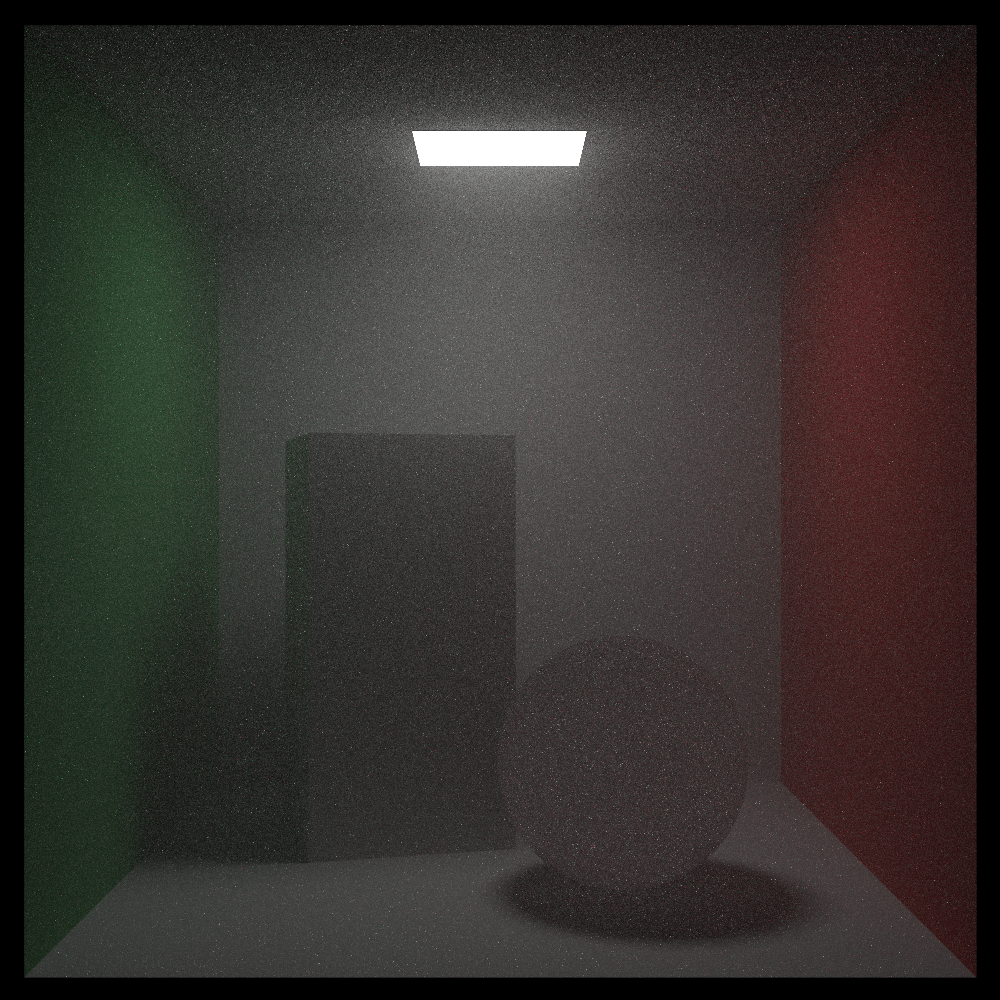
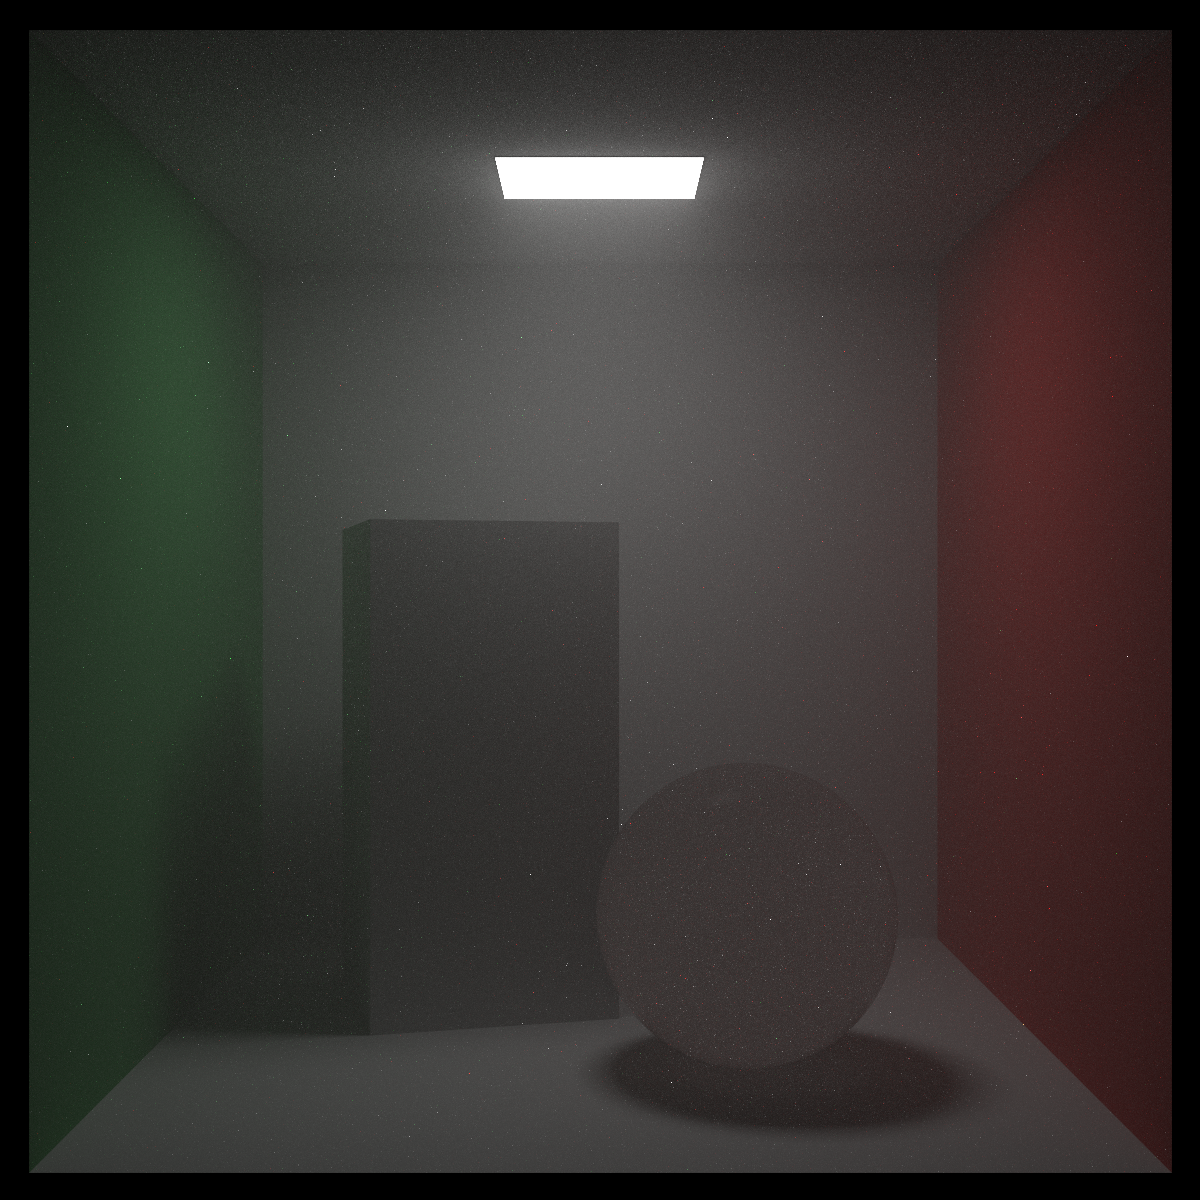
updated README and convergence drawing. Made some higher quality images

diff --git a/render.h b/render.h
@@ -14,7 +14,8 @@
 #include <sys/stat.h> 
 #include <sys/types.h>
 
-template<size_t image_width, size_t image_height, size_t samplespp>
+//image width and height are what they say they are
+template<size_t image_width, size_t image_height>
 struct render {
     const scene curr_scene;
     static constexpr unsigned max_depth = 50;
@@ -22,9 +23,19 @@ struct render {
     render() = delete;
     explicit render(scene scn) : curr_scene(std::move(scn)) {}
 
-    //image width and height are what they say they are
+
     //samplespp in the number of samples initially to generate
-    void draw_on_convergence(const std::string output, const double tol = 0.001) const {
+    template <size_t samplespp>
+    void draw_on_convergence(const std::string output, const double tol = 0.1) const {
+        //======================================
+        //The general idea:
+        // - consider the plot of the number of rays per pixel against the color of the pixel (or some component of color, say red)
+        // - then consider the plot of the derivative of this
+        // - when the plot of the derivative reaches tol, we quit
+        // Basically, we keep on adding more rays into the convergence gets signficantly slow
+        //======================================
+        constexpr long unsigned total_rays = samplespp*image_width*image_height;
+
         std::vector <std::vector<size_t>> samples;
         std::vector <std::vector<size_t>> curr_samples;     //keeps track of how many rays have been sent for a given pixel
 
@@ -32,11 +43,14 @@ struct render {
         std::vector <std::vector<color>> buffer_write; //buffer that has been properly normalized for file writing
         std::vector <std::vector<color>> buffer_prev;  //stores the previous buffer (for convergence checking)
 
+        std::vector <std::vector<double>> conv;  //stores how fast each pixel is converging to the solution
+
         samples.resize(image_width);
         curr_samples.resize(image_width);
         buffer.resize(image_width);
         buffer_write.resize(image_width);
         buffer_prev.resize(image_width);
+        conv.resize(image_width);
 
 
         for (unsigned i = 0; i < image_width; i++) {
@@ -45,6 +59,7 @@ struct render {
             buffer[i].resize(image_height);
             buffer_write[i].resize(image_height);
             buffer_prev[i].resize(image_height);
+            conv[i].resize(image_height);
             for (unsigned j = 0; j < image_height; j++) {
                 samples[i][j] = samplespp;
                 curr_samples[i][j] = 0;
@@ -57,52 +72,74 @@ struct render {
             for (unsigned i = 0; i < image_width; ++i) {
                 buffer_prev[i][j] = buffer[i][j];
                 curr_samples[i][j] += samples[i][j];
+                buffer_write[i][j] = buffer[i][j] / (double)curr_samples[i][j];
             }
         }
+        write_buffer_png(output, buffer_write);
 
         bool should_quit = false;
         unsigned counter = 0;
-        double max_dev = 0;
-        size_t pixel_x, pixel_y;
+        double max_dev = 0, max_dev_l = 0;  //storing the quickest convergence and the color with the quickest convergence
+        double sum = 0; //summing over all max_dev_l --- acts as a normalising factor for redistributing the rays
         while (!should_quit) {
             max_dev = 0;
+            sum = 0;
             should_quit = true;
             draw_to_buffer(buffer, samples);
             for (int j = (int) image_height - 1; j >= 0; --j) {
                 for (unsigned i = 0; i < image_width; ++i) {
                     curr_samples[i][j] += samples[i][j];
                     buffer_write[i][j] = buffer[i][j] / (double)curr_samples[i][j];
-                    //if the colour has not changed significatly
-                    const auto dev_x = abs(buffer_write[i][j].x() - buffer_prev[i][j].x()/(double)curr_samples[i][j]);
-                    const auto dev_y = abs(buffer_write[i][j].y() - buffer_prev[i][j].y()/(double)curr_samples[i][j]);
-                    const auto dev_z = abs(buffer_write[i][j].z() - buffer_prev[i][j].z()/(double)curr_samples[i][j]);
-                    if (dev_x > max_dev) {max_dev = dev_x; pixel_x = i; pixel_y = j;};
-                    if (dev_y > max_dev) {max_dev = dev_y; pixel_x = i; pixel_y = j;};
-                    if (dev_z > max_dev) {max_dev = dev_z; pixel_x = i; pixel_y = j;};
+                    //determining how much each the colour of each pixel has changed by a repreated iteration (for a single photon)
+                    const auto dev_x = abs(buffer_write[i][j].x() - buffer_prev[i][j].x()/(double)curr_samples[i][j]) / samples[i][j];
+                    const auto dev_y = abs(buffer_write[i][j].y() - buffer_prev[i][j].y()/(double)curr_samples[i][j]) / samples[i][j];
+                    const auto dev_z = abs(buffer_write[i][j].z() - buffer_prev[i][j].z()/(double)curr_samples[i][j]) / samples[i][j];
+                    max_dev_l = dev_x;
+                    if (dev_y > max_dev_l) {max_dev_l = dev_y;}
+                    if (dev_z > max_dev_l) {max_dev_l = dev_z;}
+                    conv[i][j] = max_dev_l;
+                    sum += max_dev_l;
 
-                    if ( ( dev_x > tol ) || ( dev_y > tol ) || ( dev_z > tol ) ) {
-                        should_quit = false;    //must keep computing
-                    } else {
-                        samples[i][j] = 0;  //pixel is good enough and so we can save computation power but not sending any other rays to it
-                    }
+                    if (max_dev_l > max_dev) {max_dev = max_dev_l;}   //for printing purposes
+
+                    //if the current pixel is converging too fast, then we must keep iterating
+                    if ( max_dev_l > tol ) {
+                        should_quit = false;
+                    } //else {
+                        //samples[i][j] = 10;  //pixel is good enough and so we can save computation power but not sending any other rays to it
+                    //}
+
                     buffer_prev[i][j] = buffer[i][j];
-
                 }
             }
 
+
+            //redistributing the rays based on the convergence
+            for (int j = (int) image_height - 1; j >= 0; --j) {
+                for (unsigned i = 0; i < image_width; ++i) {
+                    samples[i][j] = ceil(total_rays * conv[i][j] / sum);
+                    if (samples[i][j]==0) {
+                        samples[i][j] = 1;
+                    }
+                }
+            }
+
+
+
             write_buffer_png(output, buffer_write);
-            std::cout << "loop num : " << counter++ << "\tmax deviation : " << max_dev << "/" << tol << " at (" << pixel_x << "," << pixel_y << ")\n";
+            std::cout << "loop num : " << counter++ << "\tmax deviation : " << max_dev << "/" << tol << "\n";
         }
 
     }
 
 
-    //void draw_to_buffer(std::array <std::array<color, image_width>, image_height> &buffer,
-    //                    const std::array <std::array<size_t, image_width>, image_height> samples) const {
     void draw_to_buffer(std::vector <std::vector<color>> &buffer,
                         const std::vector<std::vector<size_t>> samples) const {
-        #pragma omp parallel for shared(buffer)
+        unsigned counter = 0;
+        std::cout << "\n";
+        #pragma omp parallel for shared(buffer, counter)
         for (int j = (int) image_height - 1; j >= 0; --j) {
+            std::cout << "\rScanline: " << ++counter << " / " << image_height << std::flush;
             for (unsigned i = 0; i < image_width; ++i) {
                 for (int s = 0; s < samples[i][j]; ++s) {
                     const auto u = double(i + random_double()) / (image_width - 1);
@@ -112,7 +149,7 @@ struct render {
                 }
             }
         }
-
+        std::cout << "\r                                  " << std::flush;
     }
 
     [[nodiscard]] color ray_color(const ray &r, const unsigned depth) const {

diff --git a/main.cpp b/main.cpp
@@ -14,9 +14,43 @@ int main() {
 	std::cout << "Computation started at " << std::ctime(&start_time);
 
 
-	scene curr_scene = 	cornell_box_scene2();
-    render<600, 600, 50> ren(curr_scene);
-    ren.draw_on_convergence("cornell_box_sphere.png", 0.001);
+    /*scene weekend = 	big_scene1();
+    render<600, 400> ren_weekend(weekend);
+    ren_weekend.draw_on_convergence<100>("speed_test_1.png", 0.0001);*/
+
+
+
+
+    scene weekend = 	big_scene1();
+    //render<7680, 4320, 100> ren_weekend(weekend);
+    render<15360, 8640> ren_weekend(weekend);
+    ren_weekend.draw_on_convergence<100>("raytracing_in_one_weekend_main_image.png", 0.001);
+
+    scene weekend_fog = 	big_scene1_fog();
+    render<1920, 1080> ren_weekend_fog(weekend_fog);
+    ren_weekend_fog.draw_on_convergence<50>("raytracing_in_one_weekend_main_image_foggy.png", 0.01);
+
+    scene cornell2 = 	cornell_box_scene2();
+    render<1200, 1200> ren_cornell2(cornell2);
+    ren_cornell2.draw_on_convergence<100>("cornell_box_sphere.png", 0.01);
+
+    scene cornell = 	cornell_box_scene();
+    render<1200, 1200> ren_cornell(cornell);
+    ren_cornell.draw_on_convergence<100>("cornell_box.png", 0.01);
+
+    //only if time
+    ren_weekend_fog.draw_on_convergence<50>("raytracing_in_one_weekend_main_image_foggy_2.png", 0.001);
+
+    ren_cornell2.draw_on_convergence<100>("cornell_box_sphere_2.png", 0.001);
+
+    ren_cornell.draw_on_convergence<100>("cornell_box_2.png", 0.001);
+
+    ren_weekend.draw_on_convergence<100>("raytracing_in_one_weekend_main_image_2.png", 0.0001);
+
+    /*scene fog_box = 	cornell_box_scene2_fog();
+    render<1200, 1200, 50> ren_fog(fog_box);
+    ren_fog.draw_on_convergence("conell_box_foggy.png", 0.001);*/
+
 
 
 

diff --git a/scenes.h b/scenes.h
@@ -115,7 +115,8 @@ struct [[maybe_unused]] big_scene1 : public scene {
 		hittable_list obj;
 		
 		const auto checker = make_shared<checker_texture>(color(0.2, 0.3, 0.1), color(0.9, 0.9, 0.9));
-		const auto ground_material = make_shared<lambertian>(checker);
+		//const auto ground_material = make_shared<lambertian>(checker);
+        const auto ground_material = make_shared<lambertian>(color(0.5, 0.5, 0.5));
 		obj.add(make_shared<sphere>(point3(0,-1000,0), 1000, ground_material));
 
 		for (int a = -11; a<11; a++) {	//centers of spheres x
@@ -178,7 +179,8 @@ struct [[maybe_unused]] big_scene1_fog : public scene {
         hittable_list obj;
 
         const auto checker = make_shared<checker_texture>(color(0.2, 0.3, 0.1), color(0.9, 0.9, 0.9));
-        const auto ground_material = make_shared<lambertian>(checker);
+        //const auto ground_material = make_shared<lambertian>(checker);
+        const auto ground_material = make_shared<lambertian>(color(0.5, 0.5, 0.5));
         obj.add(make_shared<sphere>(point3(0,-1000,0), 1000, ground_material));
 
         for (int a = -11; a<11; a++) {	//centers of spheres x

diff --git a/color.h b/color.h
@@ -60,9 +60,9 @@ namespace fs = std::filesystem;
 
 //T was originally std::vector<std::vector<color>>
 template<typename T>
-inline void write_buffer_png(const std::string &file_name, const T buffer) {
-    const auto img_w = buffer[0].size();
-    const auto img_h = buffer.size();
+inline void write_buffer_png(const std::string &file_name, const T &buffer) {
+    const auto img_w = buffer.size();
+    const auto img_h = buffer[0].size();
 
     //https://www.nongnu.org/pngpp/doc/0.2.9/
     png::image<png::rgb_pixel> image(img_w, img_h);

diff --git a/vec3.h b/vec3.h
@@ -10,6 +10,7 @@ struct vec3 {
 	double e[3];
 	vec3() : e{0,0,0} {}
 	vec3(double e0, double e1, double e2) : e{e0, e1, e2} {}
+	vec3(double E) : e{E,E,E} {}
 
 	[[nodiscard]] double x() const {return e[0];}
 	[[nodiscard]] double y() const {return e[1];}

diff --git a/fog.h b/fog.h
@@ -27,6 +27,7 @@ struct basic_constant_fog : public participating_medium {
         return rand_exp(lambda);
     }
 
+
     [[nodiscard]] color color_at(const vec3 &hit_pos) const override {
         return col;
     }

diff --git a/README.md b/README.md
@@ -1,4 +1,18 @@
 # Raytracing
-A path tracing based on; [Raytracing in one weekend](https://raytracing.github.io/books/RayTracingInOneWeekend.html), [Raytracing the next week](https://raytracing.github.io/books/RayTracingTheNextWeek.html), [Raytracing the rest of your life](https://raytracing.github.io/books/RayTracingTheRestOfYourLife.html). Also has some features from [Physically Based Rendering](https://www.pbrt.org/).
+This is a path tracer based on; [Raytracing in one weekend](https://raytracing.github.io/books/RayTracingInOneWeekend.html), [Raytracing the next week](https://raytracing.github.io/books/RayTracingTheNextWeek.html), and [Raytracing the rest of your life](https://raytracing.github.io/books/RayTracingTheRestOfYourLife.html). There are some features from [Physically Based Rendering](https://www.pbrt.org/) and a number I came up with (although I am likely not the first to come up with them).
+
 This project was also implemented on the GPU using CUDA, see [Raytracing_GPU](https://github.com/daRoyalCacti/Raytracing_GPU).
-The images created are available in [/images](https://github.com/daRoyalCacti/Raytracing_GPU/tree/master/images).
+
+All images created are available in [/images](https://github.com/daRoyalCacti/Raytracing_GPU/tree/master/images). Some noteworthy images are seen below.
+
+<img src="https://raw.githubusercontent.com/daRoyalCacti/Raytracing/b83ec26c0bbaaadf447fbb5b877369a540987961/images/cornell_box.png" width="400" height="400">
+
+<img src="https://raw.githubusercontent.com/daRoyalCacti/Raytracing/b83ec26c0bbaaadf447fbb5b877369a540987961/images/cornell_box_sphere.png" width="400" height="400">
+
+<img src="https://raw.githubusercontent.com/daRoyalCacti/Raytracing/b83ec26c0bbaaadf447fbb5b877369a540987961/images/conell_box_foggy.png" width="400" height="400">
+
+
+<img src="https://raw.githubusercontent.com/daRoyalCacti/Raytracing/b83ec26c0bbaaadf447fbb5b877369a540987961/images/raytracing_in_one_weekend_main_image.png" width="800" height="450">
+
+<img src="https://raw.githubusercontent.com/daRoyalCacti/Raytracing/b83ec26c0bbaaadf447fbb5b877369a540987961/images/raytracing_the_next_week_main_image.png" width="400" height="400">
+
